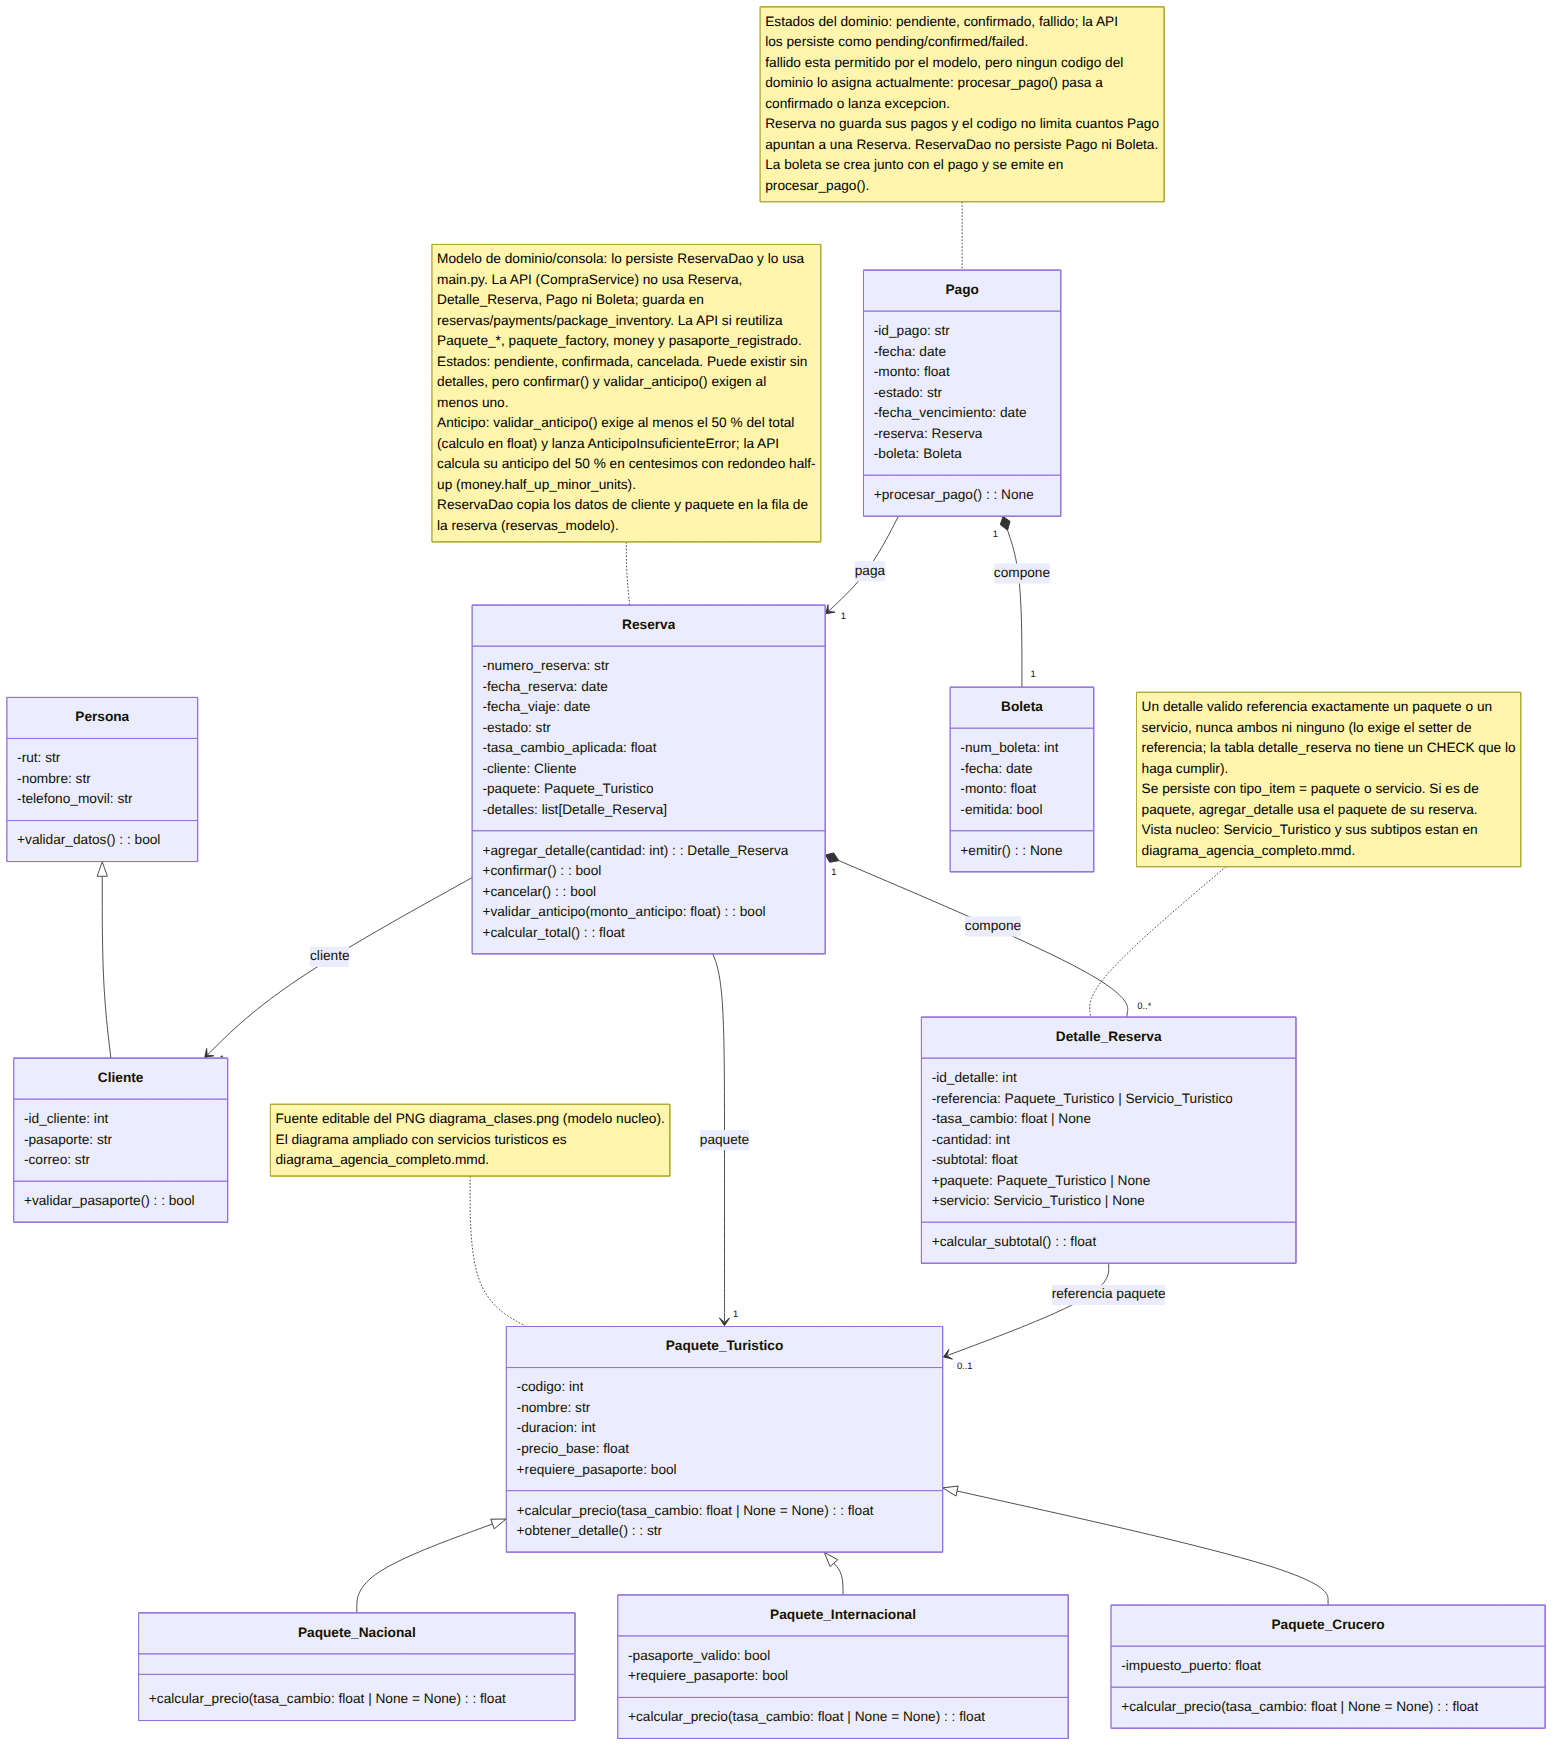
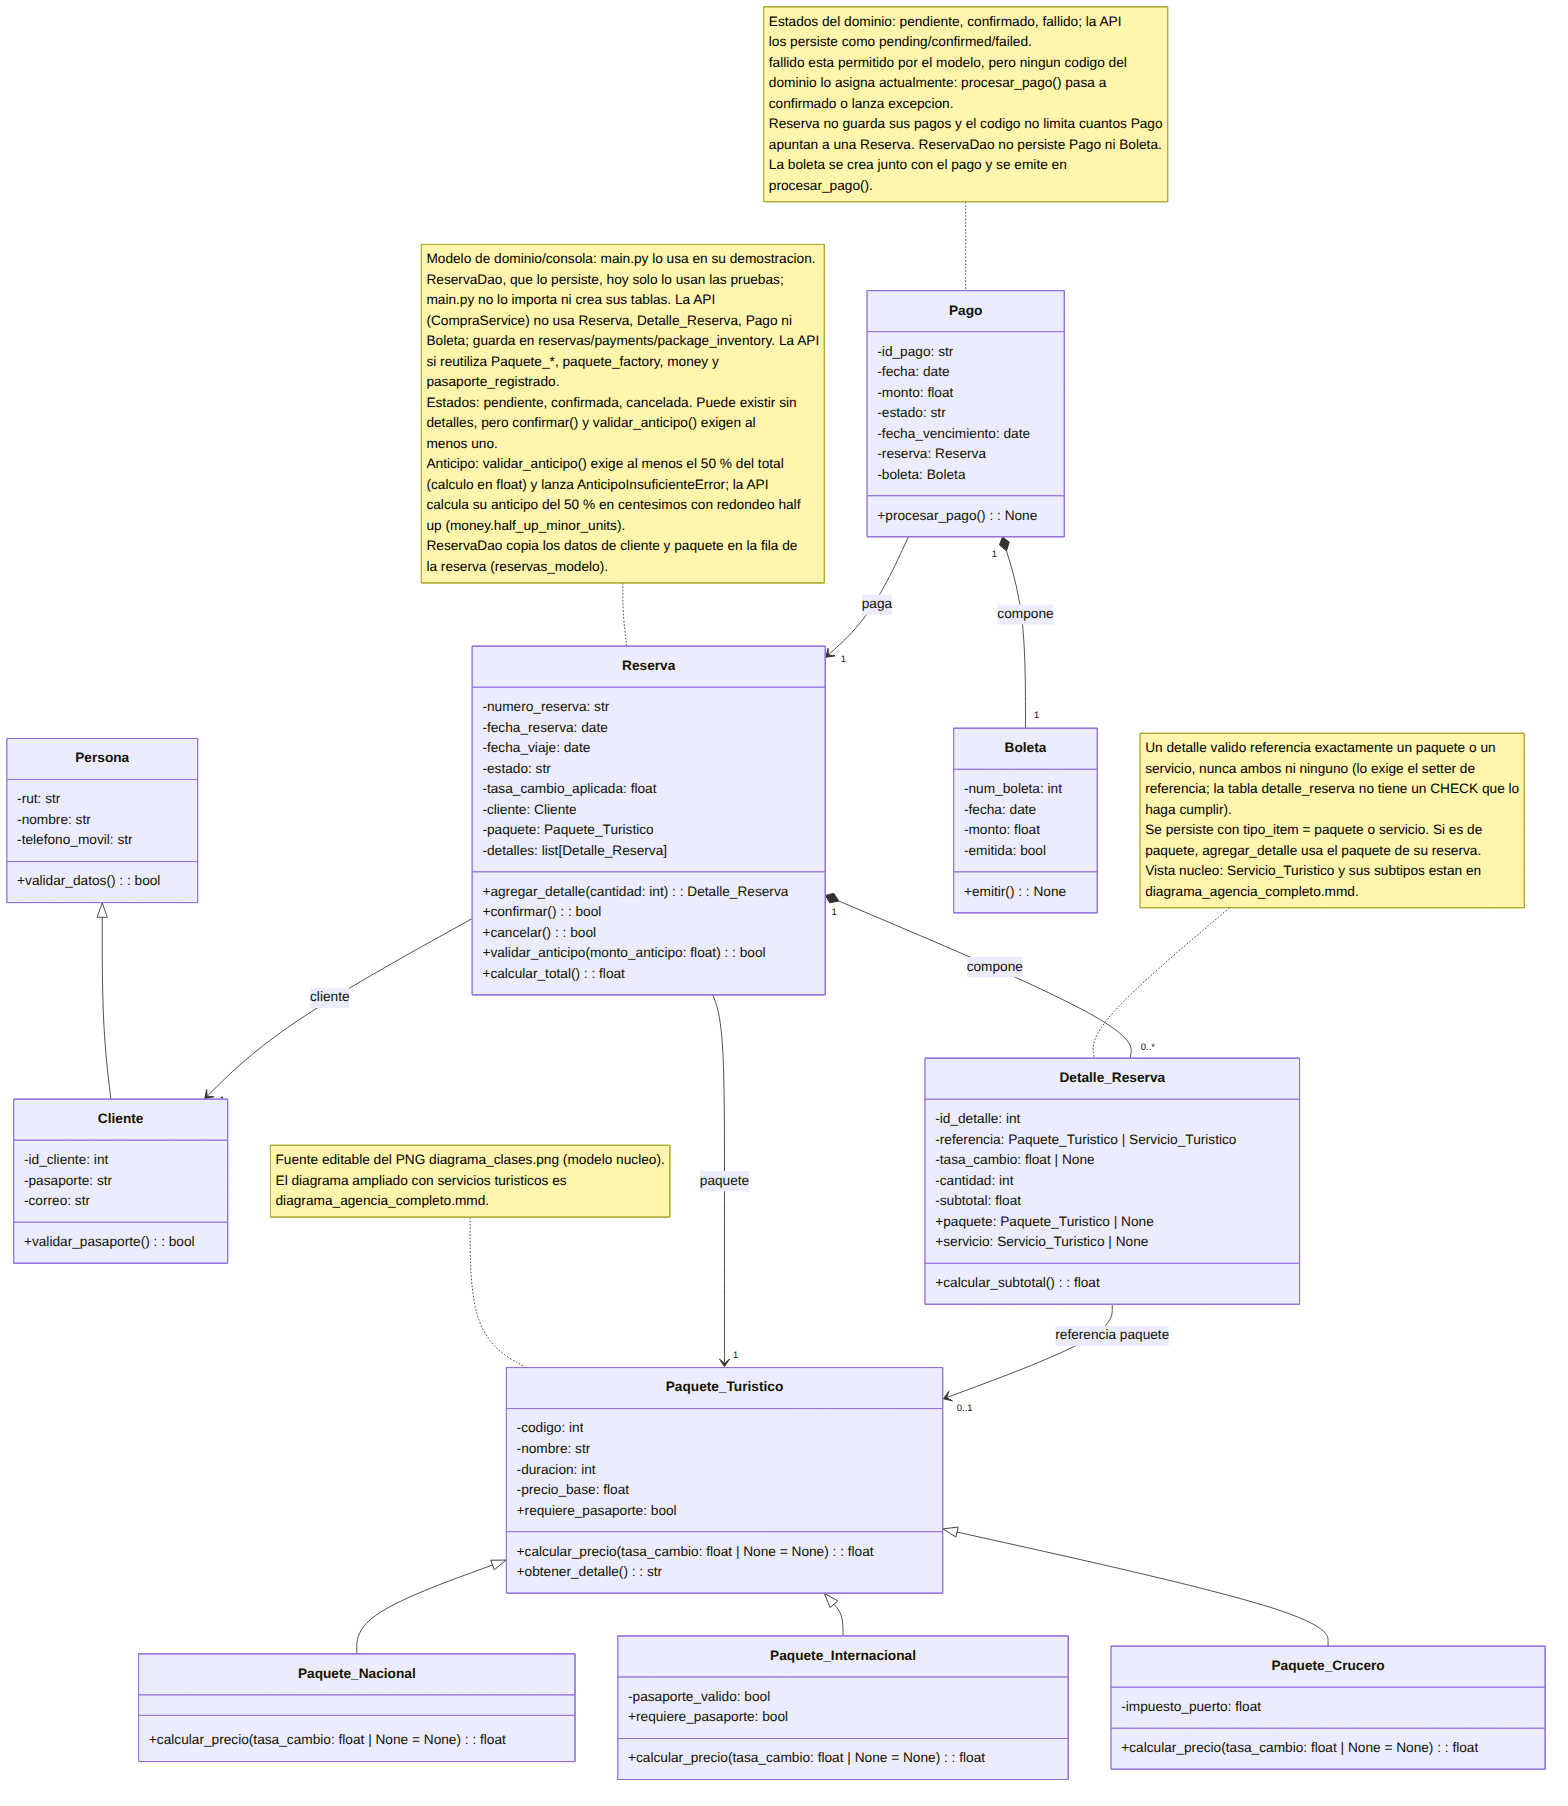
docs: aclara que ReservaDao solo lo usan las pruebas y regenera el PNG

diff --git a/README.md b/README.md
@@ -14,7 +14,7 @@ Aplicación de consola de una agencia de viajes. `main.py` presenta un menú int
 
 El proyecto mantiene dos capas de reservas con responsabilidades distintas:
 
-- **Dominio/consola:** las clases `Reserva`, `Detalle_Reserva`, `Pago` y `Boleta` (`model/`) y su persistencia `ReservaDao` (`reservas_modelo`, `detalle_reserva`, `servicios`). Las usa el menú `main.py` y las pruebas de modelo. La API no las utiliza.
+- **Dominio/consola:** las clases `Reserva`, `Detalle_Reserva`, `Pago` y `Boleta` (`model/`). La demostración de `main.py` usa `Reserva` y `Pago`, que crean sus `Detalle_Reserva` y su `Boleta`, y las pruebas de modelo también las ejercitan. Su persistencia `ReservaDao` (`reservas_modelo`, `detalle_reserva`, `servicios`) hoy solo la usan las pruebas: `main.py` no la importa ni crea esas tablas. La API no utiliza estas clases.
 - **API operativa:** `CompraService` persiste en `reservas`, `payments` y `package_inventory` con transacciones, idempotencia y control de inventario. Comparte las fórmulas de precio y la regla de pasaporte del dominio, pero no `ReservaDao`.
 
 Ambas capas usan los mismos tres estados de pago; el dominio los expresa en español y la API los persiste y expone en inglés:
